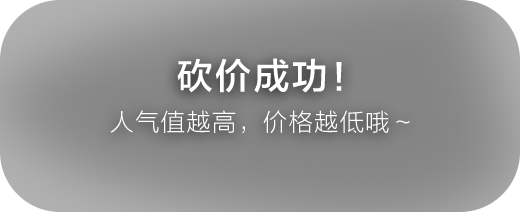
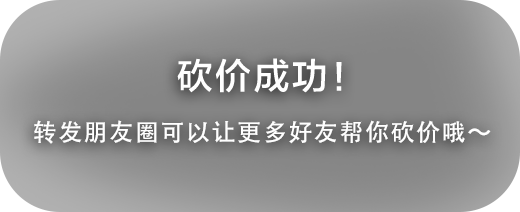
最新更新

Changed region(s): [[0.0615, 0.5094, 0.9538, 0.7075]]

diff --git a/myjob/src/views/index2.vue b/myjob/src/views/index2.vue
@@ -15,7 +15,7 @@
           </div>
         </div>
         <div class="ways"></div>
-        <div class="commodity" v-for="(item,index) in list" :key="index" v-bind:style="{ 'background-color': !(index % 2) ?'':'#fff'  }">
+        <div class="commodity" v-for="(item,index) in list" :key="index" v-bind:style="{ 'background-color': !(index % 2) ?'':'#fff','text-align':  !(index % 2) ? 'left':'right'  }">
           <div class="news" @click="toNews(item.link)">
             <div class="com-l" v-bind:class="{ 'go-r': index % 2}">
               <div class="l-name">
@@ -24,7 +24,12 @@
               <div class="l-name2">{{item.spec}}</div>
               <div class="price">原价：￥{{item.price}}</div>
               <div class="new-price">{{item.priceActivity}}元</div>
-              <div class="tip-money"></div>
+              <div class="tip-money" v-if="item.actualPopularity <3000"> 
+                加油鸭!人气越高,价格越低!
+              </div>
+              <div class="tip-money tip-img" v-else>
+                砍价完成!11.11开始买!
+              </div>
             </div>
             <div class="com-r"  v-bind:style="{ 'margin-left': !(index % 2) ?'':'0.3rem' ,'background-image':'url('+ item.img+')'}"></div>
           </div>
@@ -167,8 +172,11 @@ export default {
           this.$nextTick((ele) =>{
             if(localStorage.getItem("scroll")){
               document.documentElement.scrollTop  = localStorage.getItem("scroll") *1;
+              document.body.scrollTop = localStorage.getItem("scroll") *1; 
+              document.getElementById('app').scrollTop = localStorage.getItem("scroll") *1;
               localStorage.clear();
             }
+            document.body.scrollTop = 500;
           })
         })
         .catch(function (error) {
@@ -256,14 +264,17 @@ export default {
     },
     toTop() {
       document.documentElement.scrollTop  = 0;
+      document.body.scrollTop = 0; 
+      document.getElementById('app').scrollTop = 0;
     },
    dealWidth1(num){
-     if(num < 1000){
-       (Math.floor(num * 100 / 2000) + '%')
+     if(num <= 1000){
+       if(!num) return '0%'
+      return (Math.ceil(num * 100 / 2000) >= 5? Math.ceil(num * 100 / 2000) : 5 + '%')
      }else if(num >=3000) {
        return '100%'
      } else {
-       return (Math.floor((num -1000) * 100 / 4000) + 50 + '%')
+       return (Math.ceil((num -1000) * 100 / 4000) + 50 + '%')
      }
    },
    dealLeft(num){
@@ -353,9 +364,9 @@ export default {
 .top-img{
   position: relative;
   width: 100vw;
-  height: 11.53rem;
-  background: url("../../static/images/top.png") left top no-repeat;
-  background-size: 100vw 11.53rem;
+  height: 10.78rem;
+  background: url("../../static/images/top1.png") left top no-repeat;
+  background-size: 100vw 10.78rem;
 }
 .rule{
   position: absolute;
@@ -371,10 +382,10 @@ export default {
   color:#fff;
 }
 .time1{
-  left: 2.52rem;
+  left: 2.566rem;
 }
 .time2{
-  left: 3.27rem;
+  left: 3.288rem;
 }
 .text-times{
   padding-right:0.4rem;
@@ -388,12 +399,13 @@ export default {
   text-indent: 2em;
 }
 .time3{
-  left: 4.01rem;
+  left: 4.025rem;
 }
 .time4{
-  left: 4.7rem;
+  left: 4.752rem;
 }
 .ways{
+  margin-top: 0.5rem;
   width: 100vw;
   height: 6.02rem;
   background: url("../../static/images/ways.png") center center no-repeat;
@@ -434,7 +446,7 @@ export default {
   left: 0;
   padding: 0 0.36rem;
   width: 100%;
-  text-align: left;
+  /* text-align: left; */
   color:#000;
 }
 .l-name2{
@@ -444,14 +456,14 @@ export default {
   font-size: 0.35rem;
   padding: 0 0.36rem;
   font-weight: bold;
-  text-align: left;
+  /* text-align: left; */
 }
 .price{
   height: 0.93rem;
-  padding: 0 0.36rem;
+  padding: 0  0.46rem 0 0.36rem;
   font-size: 0.24rem;
   padding-top: 0.5rem;
-  text-align: left;
+  /* text-align: left; */
 }
 .new-price{
   width: 2.95rem;
@@ -463,13 +475,21 @@ export default {
   font-weight: bold;
   color:#fff;
   padding-left: 1.96rem;
+  text-align: left;
 }
 .tip-money{
- width: 2.94rem;
-  margin: 0 0.36rem;
-  height: 0.36rem;
-  background: url("../../static/images/tip-money.png") left top no-repeat;
-  background-size: 2.94rem 0.36rem;
+  /* width: 2.65rem; */
+  margin: 0.15rem  0.36rem;
+  /* height: 0.21rem; */
+  /* background: url("../../static/images/tip1.png") left top no-repeat; */
+  /* background-size: 2.65rem 0.21rem; */
+  font-size: 0.12rem;
+  color:rgb(155, 155, 155);
+  /* text-align: left; */
+}
+.tip-img{
+   /* background: url("../../static/images/tip2.png") left top no-repeat; */
+  /* background-size: 2.65rem 0.21rem; */
 }
 .process{
   height: 1.86rem;
@@ -519,7 +539,7 @@ export default {
   left: 6.18rem;
 }
 .process-price1,.process-price2,.process-price3{
-  text-align: left;
+  /* text-align: left; */
   width: 0.90rem;
   height: 0.38rem;
   position: absolute;

diff --git a/myjob/static/css/main.css b/myjob/static/css/main.css
@@ -13,4 +13,4 @@ legend { color:#000; }
 fieldset, img { border:0; } 
 button, input, select, textarea { font-size:100%; } 
 table { border-collapse:collapse; border-spacing:0; }
-html,body{width:100%;height:100%;box-sizing: border-box;} 
+html,body{width:100%;box-sizing: border-box;} 
